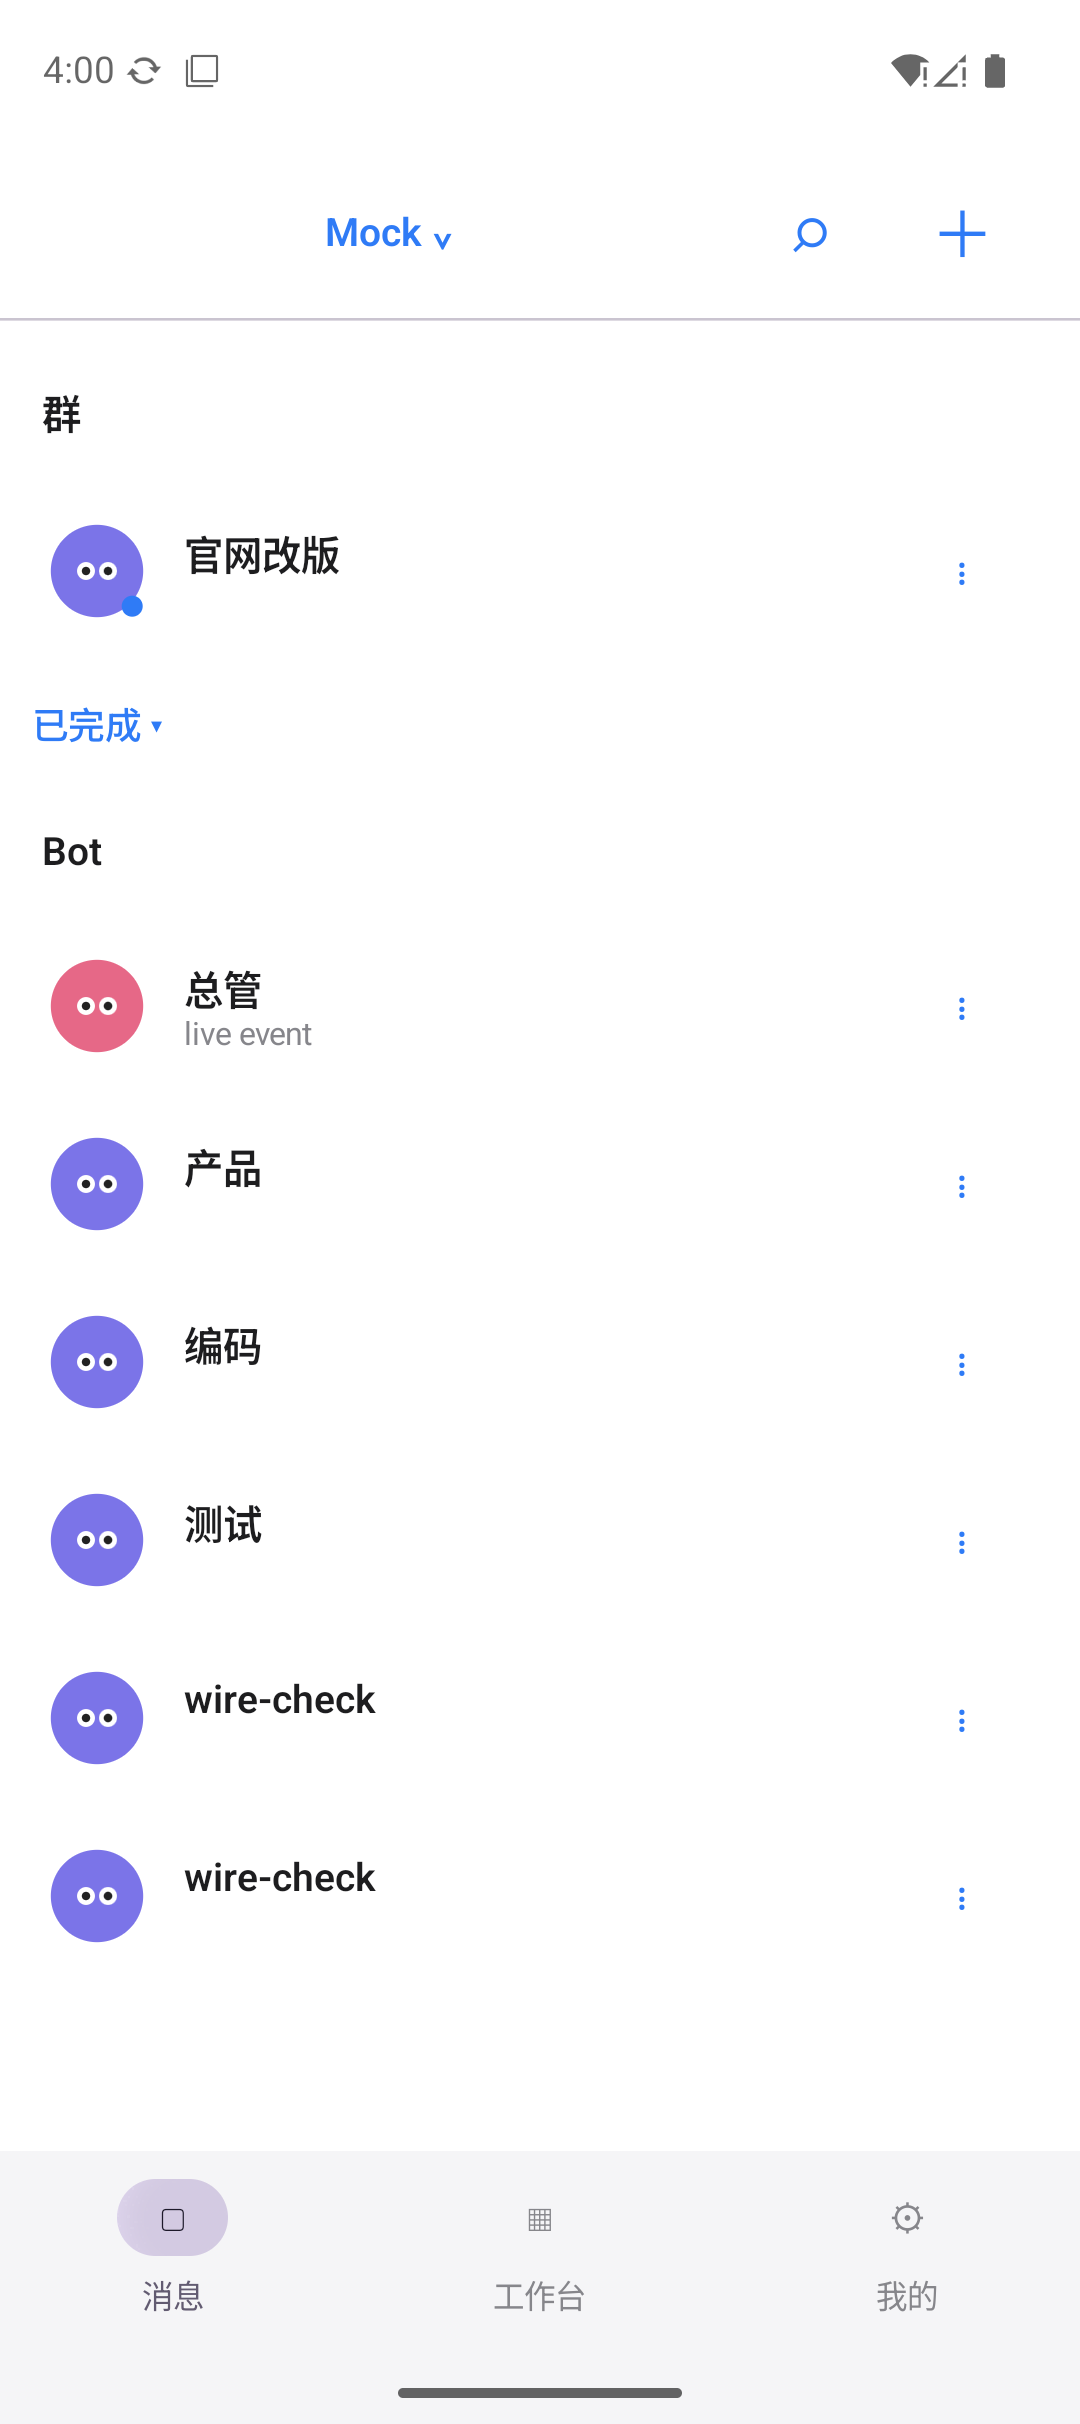
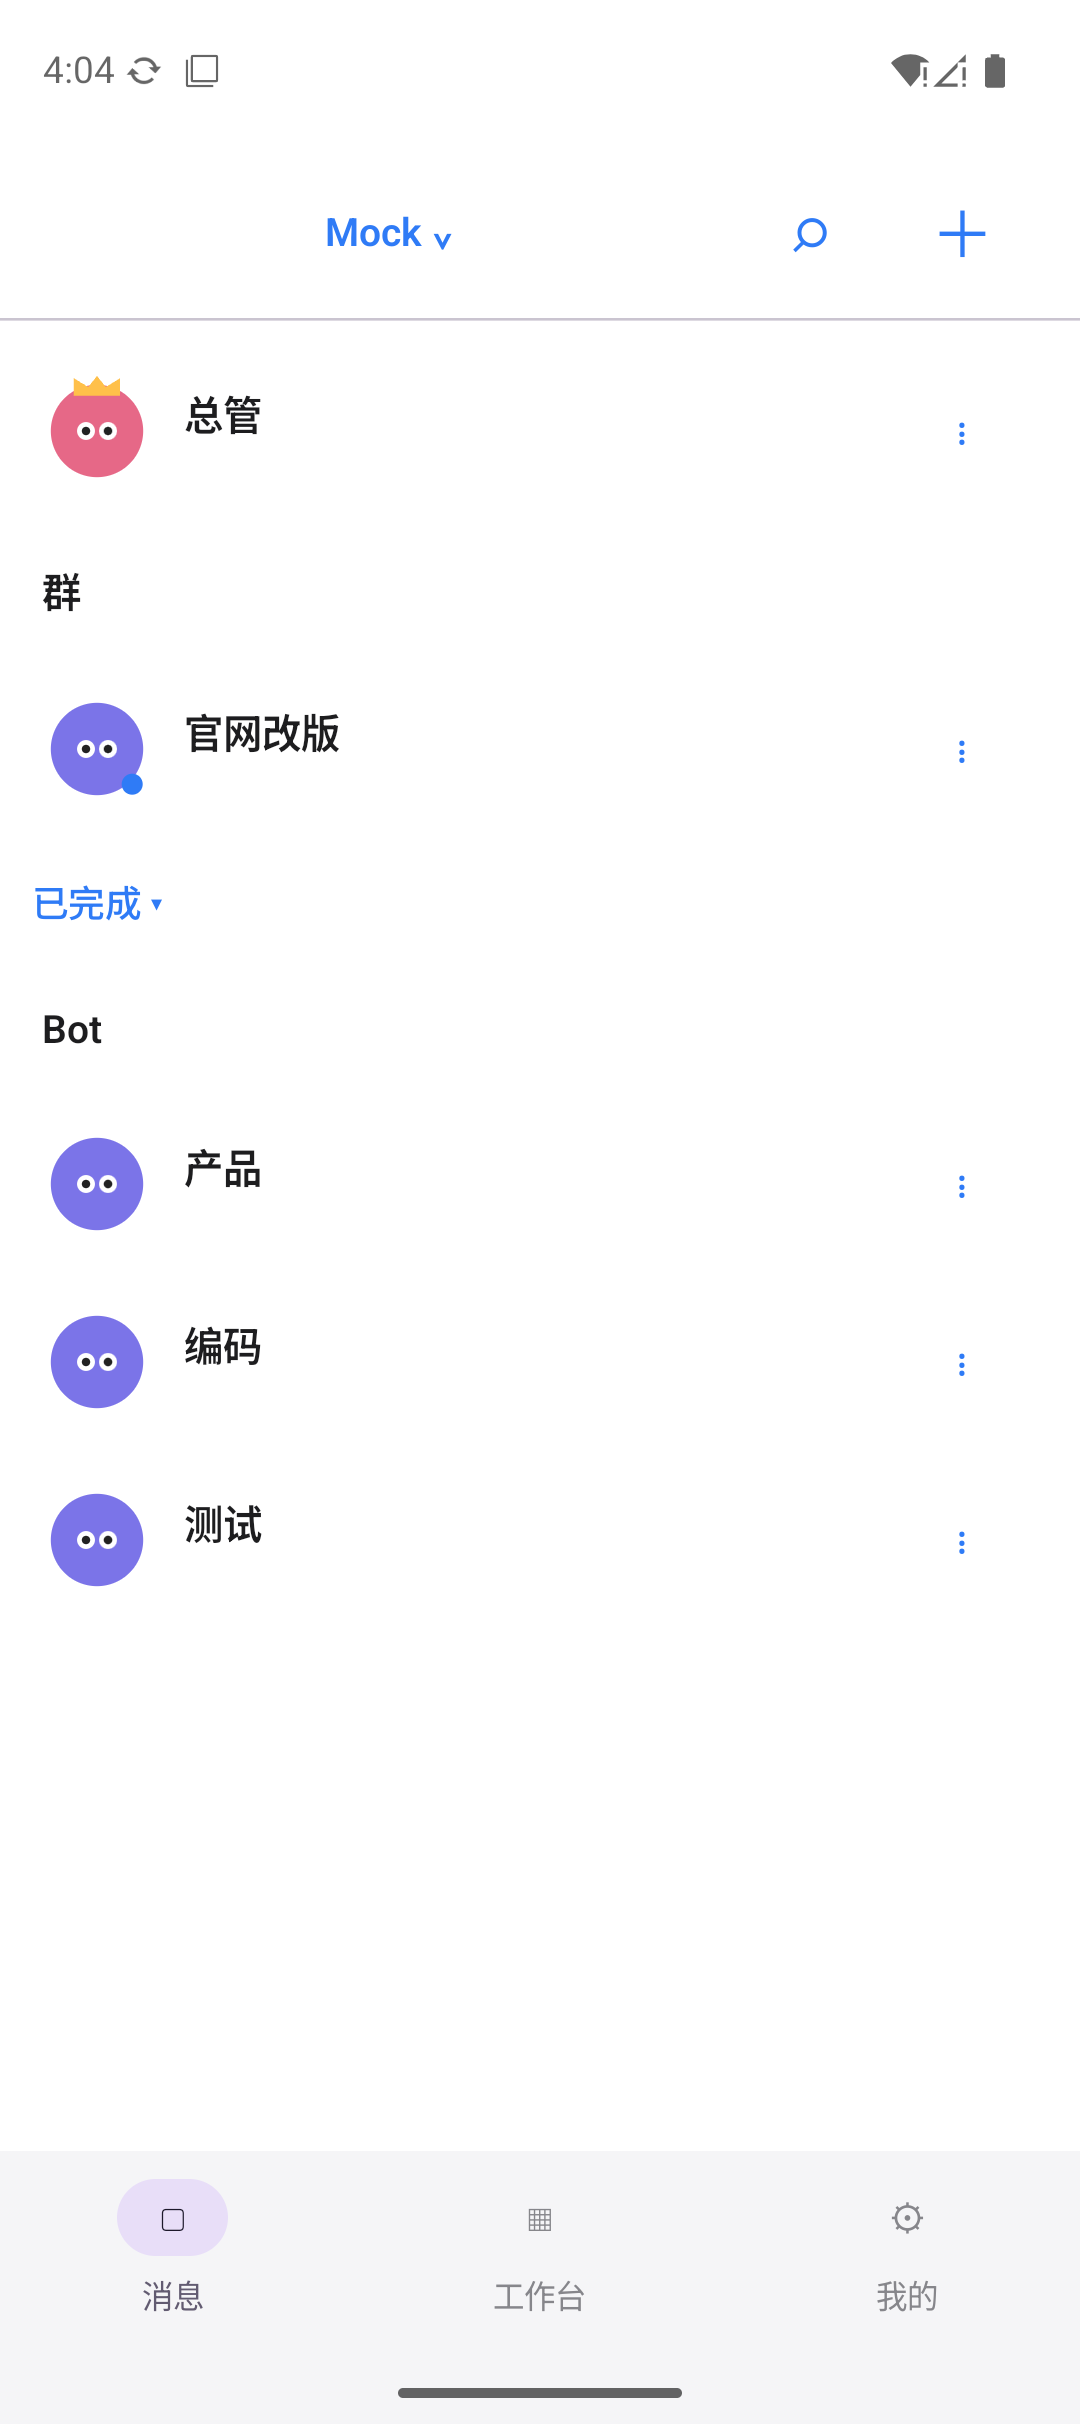
android: record mobile feature smoke tests and emulator evidence

diff --git a/clients/mobile/verification/STATUS.md b/clients/mobile/verification/STATUS.md
@@ -2,10 +2,14 @@
 
 2026-10-09: Debug APK built and installed on `macbot_api36` / `emulator-5554` (Android 16, API 36).
 
-- `:shared:commonTest :shared:androidUnitTest`: 44 tests passed, including all 104 fixture values, bootstrap/replay ordering, request ID matching, reconnect idempotency, multi-Host isolation, screen render-before-ack, state/trace merge and Android persistence.
+- `:shared:commonTest :shared:androidUnitTest`: 46 tests passed, including all 163 fixture values, bootstrap/replay ordering, request ID matching, reconnect idempotency, multi-Host isolation, screen render-before-ack, state/trace merge and Android persistence.
 - `:androidApp:connectedDebugAndroidTest`: Keystore round-trip passed (1 test).
 - Emulator connected to the server-mac test mock at `10.0.2.2:7789` using `dev`; sessions are visible. Evidence: `S0-mock-sessions.png`.
 - Foreground remote messaging service is running; notification permission granted.
-- Mock gateway published in `54349d8`; the server-mac test snapshot has `chat_main.kind=direct`; server-mac has been notified.
-- client-android S0 complete: Android main mock connection, sessions, persistence, core tests and screenshot verified. The server-mac main-chat kind issue is tracked separately.
+- Main mock gateway is deployed; `chat_main.kind=main` now renders the main Bot at the top.
+- client-android S0 complete: Android main mock connection, sessions, persistence, core tests and screenshot verified.
 - S1–S5 interfaces are implemented; feature scenarios and signed release/performance checks remain in progress. No later stage is declared complete.
+
+- Feature UI checks: direct-chat send/echo and delivered message (`S1-chat-mock.png`); task trace replay (`S1-trace-mock.png`); named Bot/project workbench groups (`S2-workbench-mock.png`); skill creation (`S3-skills-create-mock.png`).
+- Added input backpressure tests: important start/end/key events keep order; transient motion may drop under pressure.
+- Latest Debug build, 46 host tests and lint passed. Computer takeover layout/exit release and current signed Release verification continue.
